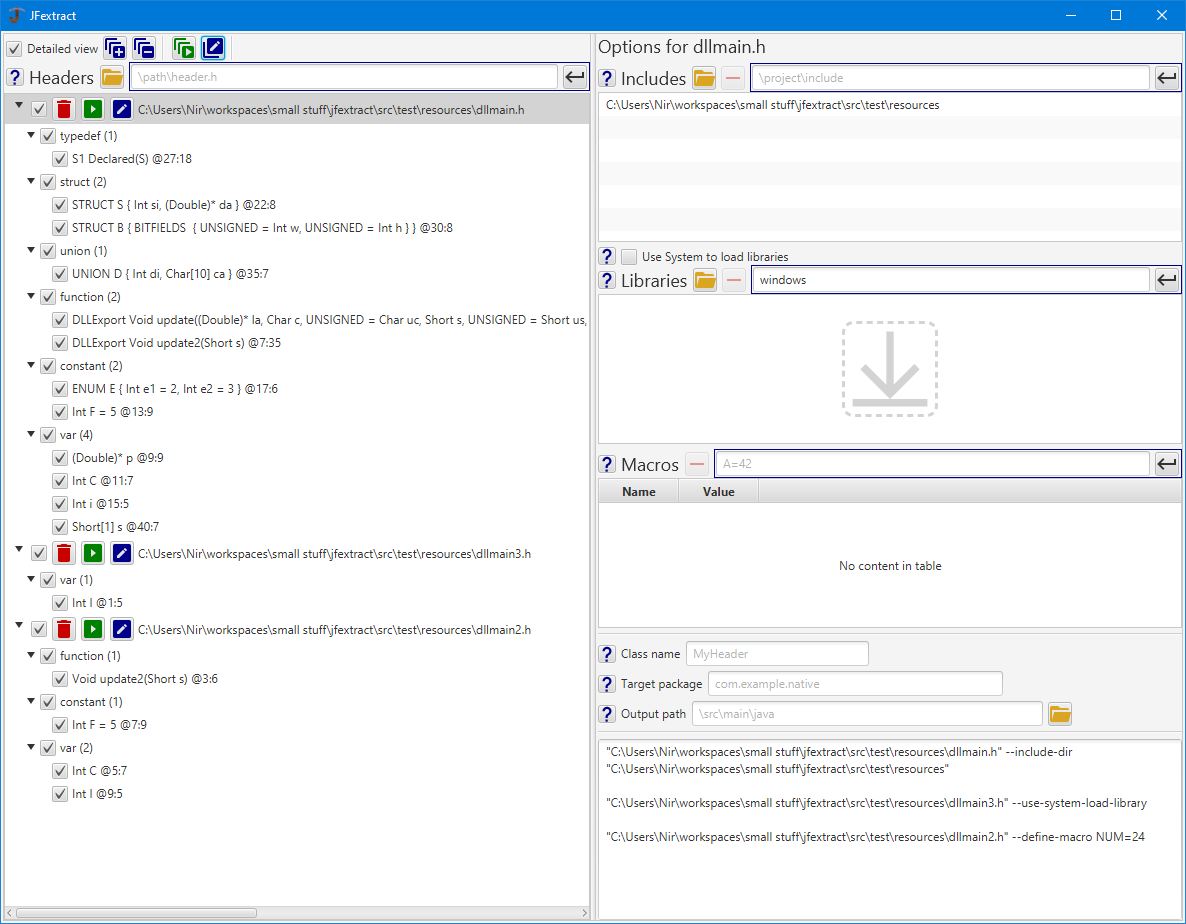
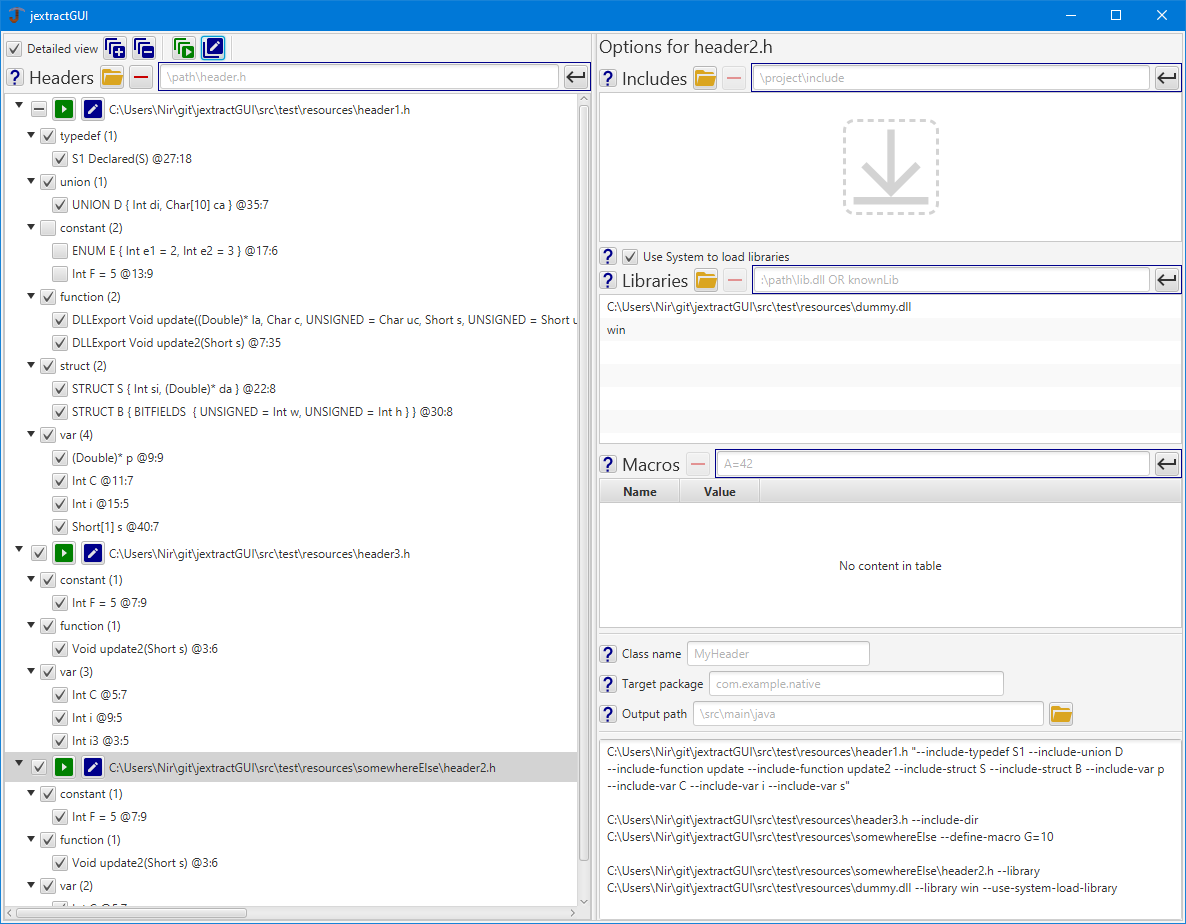
Updates to the readme

diff --git a/README.md b/README.md
@@ -1,22 +1,26 @@
-**Test version**
+**VERY EARLY VERSION**
 
 jextractGUI is a GUI wrapper for the [jextract](https://github.com/openjdk/jextract) tool written in [JavaFX](https://github.com/openjdk/jfx).
 If offers several benefits over using the command line tool:
 * Easy symbol inspection and filtering. No need to dump symbols into an `@argfile` and manually specifying the ones to include.
 * A more detailed presentation of the header symbols.
 * Working with multiple headers at once, including batch running.
-* Syntax validation for arguments (you can never be sure you entered them correctly in the command line).
-* Ability to generate jextract run commands for inspection before running, or for copying into a CLI.
+* Syntax validation for arguments (the CLI is only strings).
+* Ability to output jextract run commands for inspection before running, or for copying into a CLI.
 
 ![screenshot](doc/screenshot.png)
 
 # Requirements
 
-* You must have the [jextract 22 binaries](https://jdk.java.net/jextract) for your operating system on your `PATH`, i.e., `path/to/jextract/bin`. This is because jextractGUI does not ship with all the binaries needed for each operating system due to size considerations. For example, jextract relies on the [Clang](https://en.wikipedia.org/wiki/Clang) compiler whose binaries are located under the `bin` directory for Windows and the `lib` directory for Linux and MacOs. These are ~100MB each.
-* jextractGUI requires the `--enable-preview` JVM argument to run. This is already included in the provided executable below.
-* jextractGUI does not require the [`--enable-native-access=<module>`](https://docs.oracle.com/en/java/javase/22/core/restricted-methods.html) JVM argument itself, but an application that uses the FFM Java files produced by jextractGUI might.
-* There is no need to have a JDK on your machine to run jextractGUI since it ships with its own runtime image.
+jextractGUI does not ship with all the binaries needed for each operating system (like the [Clang](https://en.wikipedia.org/wiki/Clang) compiler) due to size considerations. You must have the [jextract 22 binaries](https://jdk.java.net/jextract) for your operating system available locally, and add the following to the `PATH` env variable:
+* Windows: `path\to\jextract\bin`.
+* MacOS/Linux: `path/to/jextract/lib`.
+
+# Building and running from source
+
+* From Gradle: use the provided Gradle wrapper. Some of the useful tasks are `build`, `run`, `jlink` (creates a standalone runtime with a launcher) and `jpackageImage` (adds a native executable to the `jlink` output for convenience). Execute `tasks` to see all tasks.
+* From the IDE: compile and run with `--enable-preview` and run with `--enable-native-access=org.openjdk.jextract` (these are already configured in Gradle).
 
 # Download
 
-An executable is created here (using jpackage).
+Pre-built executables (using jpackage) for Windows, Linux, and MacOS are available here.